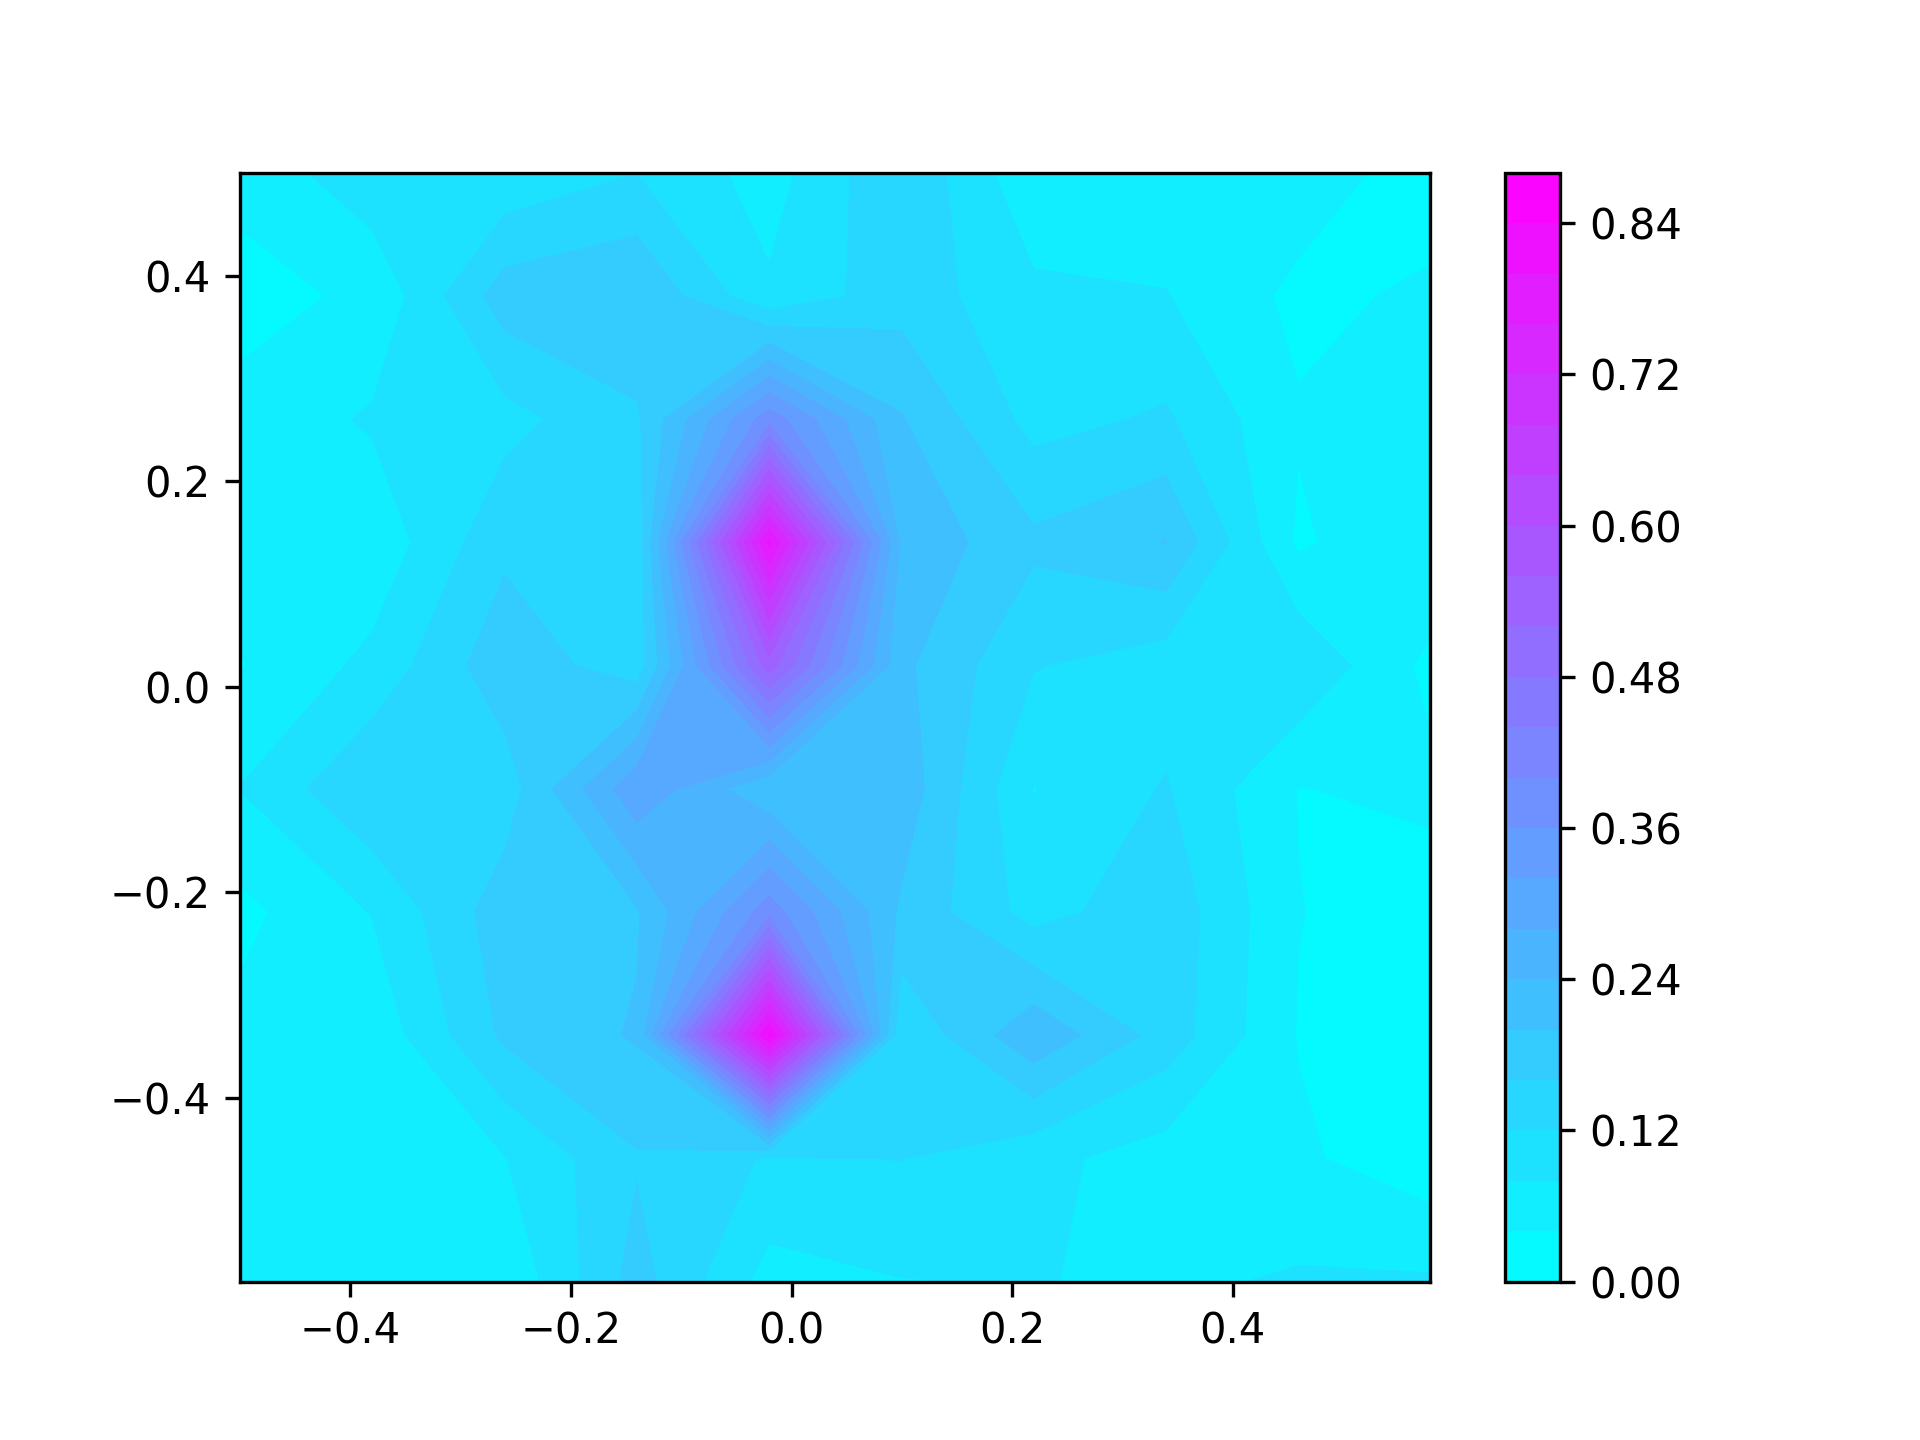
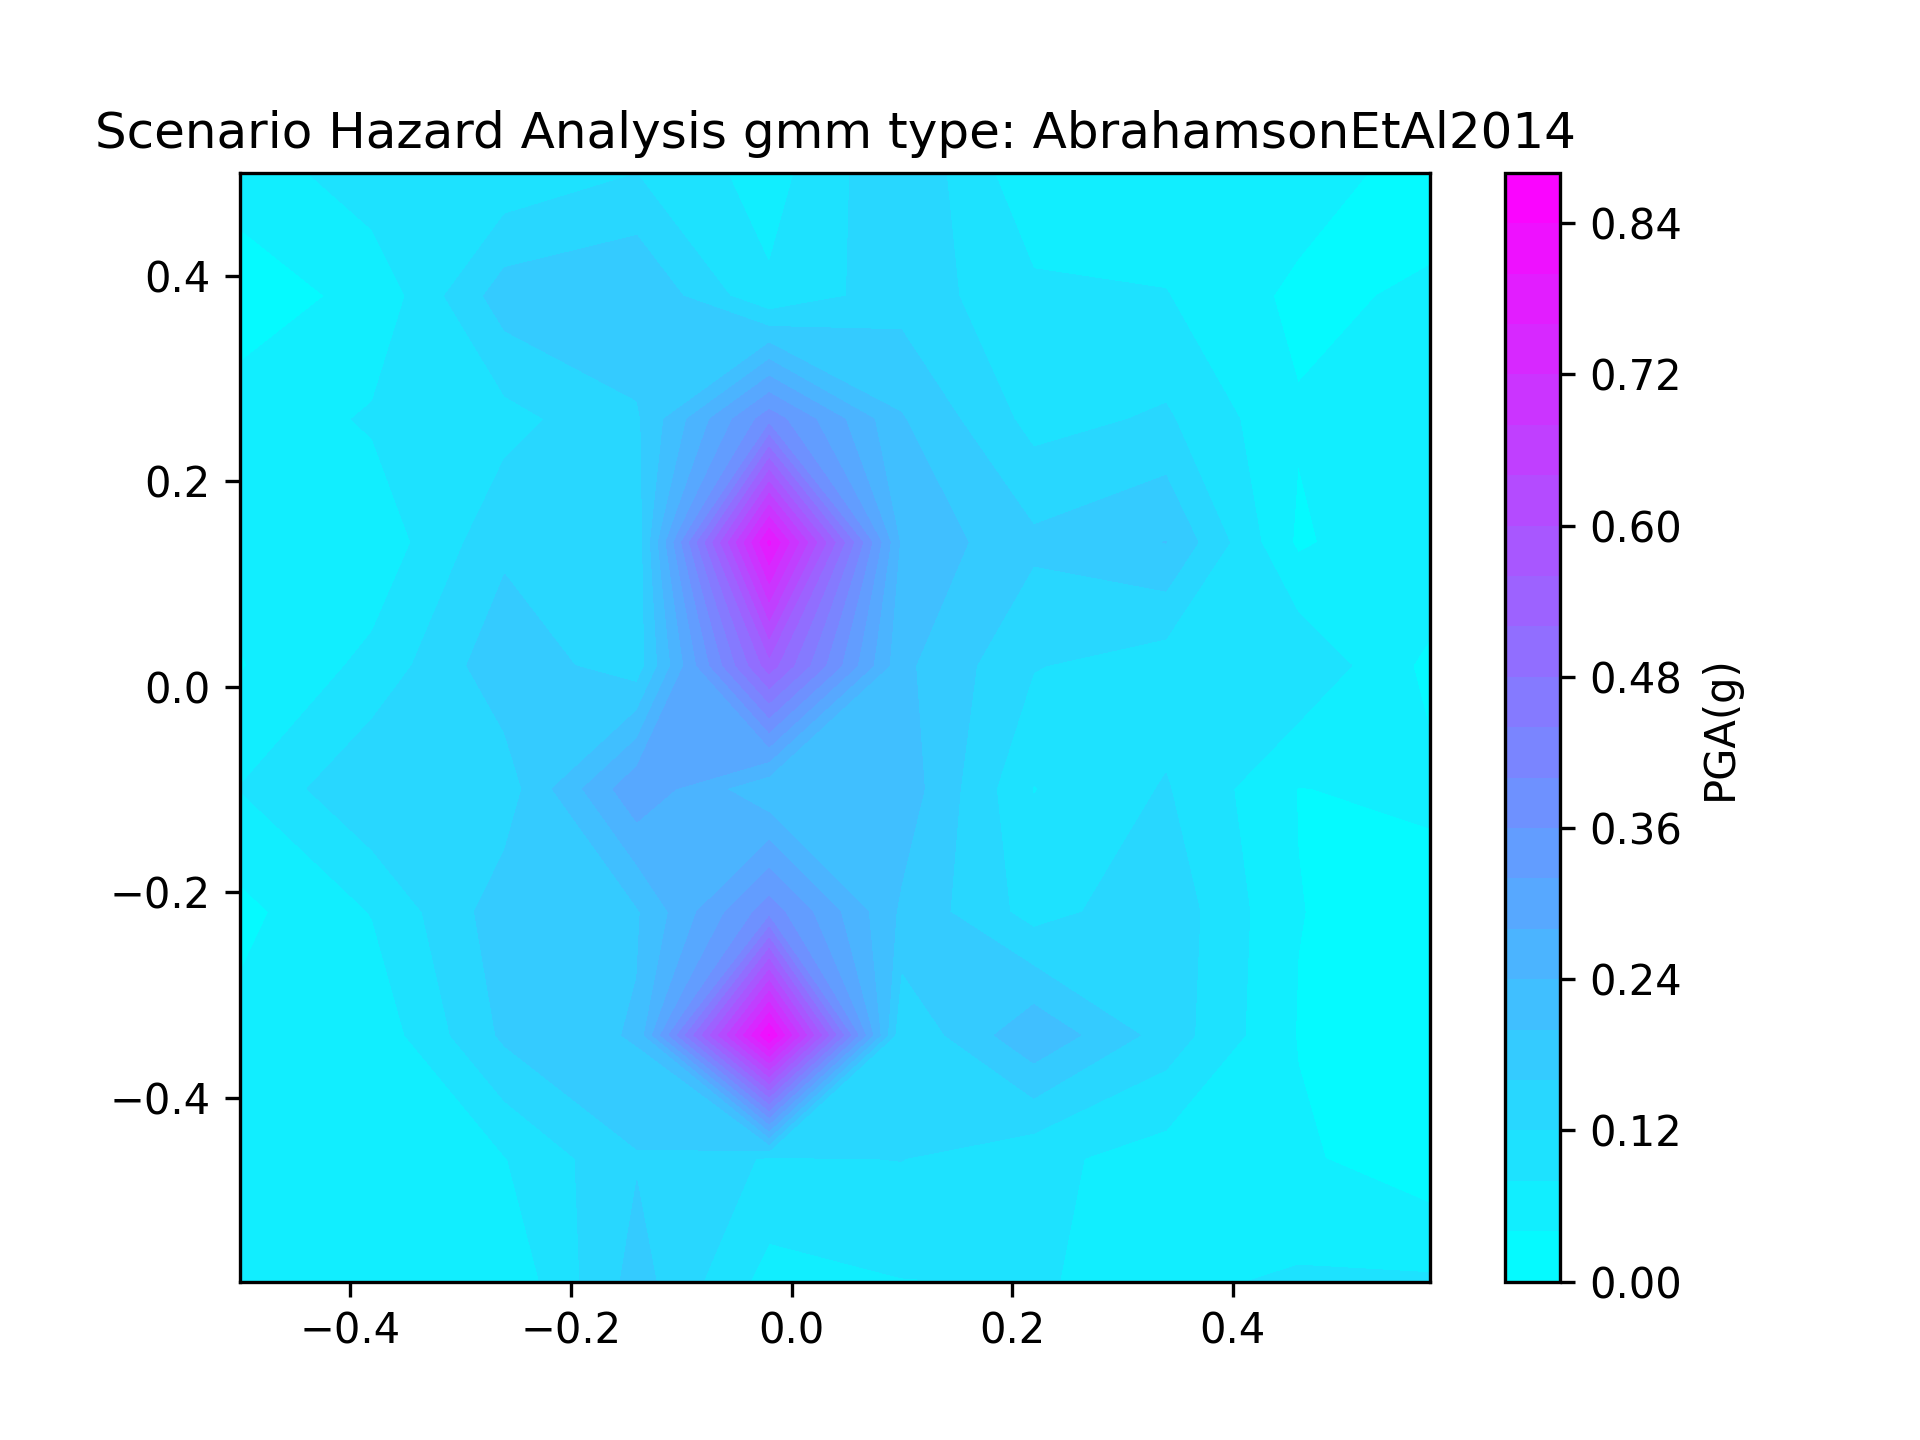
revise png

Changed region(s): [[0.0625, 0.0625, 0.8125, 0.125], [0.875, 0.4688, 0.9062, 0.5625]]

diff --git a/demos/hazard/ScenarioCase1/output/DSHA_plot.py b/demos/hazard/ScenarioCase1/output/DSHA_plot.py
@@ -3,7 +3,7 @@ import numpy as np
 import matplotlib.pyplot as plt
 from scipy.interpolate import interp2d,griddata
 
-id = 87
+id = 88
 folder = 'Yu2023'
 df_site = pd.read_csv(f"{folder}({id})/sitemesh_{id}.csv",skiprows=[0])
 df_gmf = pd.read_csv(f"{folder}({id})/gmf-data_{id}.csv",skiprows=[0])
@@ -13,10 +13,10 @@ site_id = df_site["site_id"]
 
 gmv_PGA = df_gmf[df_gmf["event_id"]==0]["gmv_PGA"]
 
-plt.scatter(x, y, c=gmv_PGA)
+plt.scatter(x, y, c=gmv_PGA, cmap='cool')
 plt.plot((0.0,0.0),(-0.3,0.3),c="r")
-plt.colorbar()
-# plt.show()
+plt.colorbar(label='PGA(g)')
+plt.title(f"Scenario Hazard Analysis gmm type: {folder}")
 plt.savefig(f"{folder}({id})/gmv_PGA.png",dpi=300)
 
 
@@ -29,7 +29,8 @@ zi = griddata((x, y), gmv_PGA, (Xi, Yi), method='nearest')
 
 plt.figure()
 plt.contourf(Xi, Yi, zi, levels=20, cmap='cool')
-plt.colorbar()
+plt.colorbar(label='PGA(g)')
+plt.title(f"Scenario Hazard Analysis gmm type: {folder}")
 # plt.show()
 plt.savefig(f"{folder}({id})/gmv_PGA_smooth.png",dpi=300)
 

diff --git a/openquake/hazardlib/gsim/Yu_2023.py b/openquake/hazardlib/gsim/Yu_2023.py
@@ -87,7 +87,7 @@ class Yu2023(GMPE):
             ML_model = pickle.load(open(f'E:\Yu\oq-engine\openquake\hazardlib\gsim\XGB_PGA.pkl', 'rb'))
             for i in range(len(ctx)):
                 print("rake",ctx.rake[i])
-                predict = ML_model.predict([[np.log(ctx.vs30[i]), ctx.mag[i],np.log(ctx.rrup[i]),ctx.rake[i],120]])[0]
+                predict = ML_model.predict([[np.log(ctx.vs30[i]), ctx.mag[i],np.log(ctx.rrup[i]),ctx.rake[i],256]])[0]
                 # print("predict:",predict)
                 mean[m][i] = np.log(np.exp(predict)/980)
                 sig[m][i], tau[m][i], phi[m][i] = 0.35,0.12,0.34
